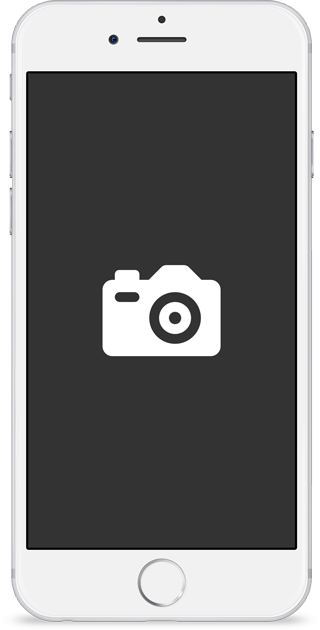
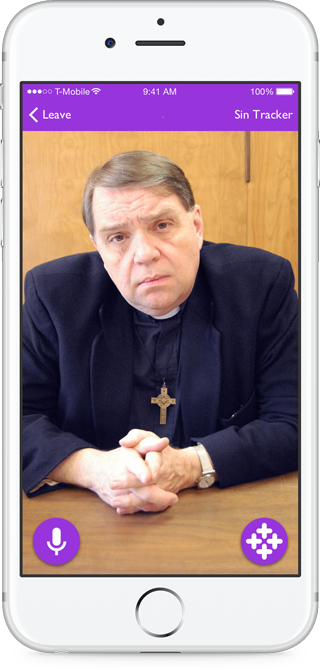
add new app images

diff --git a/index.html b/index.html
@@ -174,7 +174,7 @@
                             <!--begin features_center -->
                             <div class="features_center nodisplay up_fade wow fadeInUp animated">
 
-                                <img src="img/iphone.png" alt="Picture">
+                                <img src="img/launchScreenOnDevice.png" alt="Picture">
 
                             </div>
                             <!--end features_center -->
@@ -236,7 +236,7 @@
 
     <!--feature 1-->
     <div class="row">
-      <div class="col-md-6 text-center"> <img src="img/feature-1.png" alt="feature" class="wow fadeInLeft" data-no-retina data-wow-offset="250"> </div>
+      <div class="col-md-6 text-center"> <img src="img/pickAPriestOnDevice.png" alt="feature" class="wow fadeInLeft" data-no-retina data-wow-offset="250"> </div>
       <div class="col-md-6 sideby-feat">
         <article>
           <h4>Video Confession</h4>
@@ -248,7 +248,7 @@
 
     <!--feature 2-->
     <div class="row">
-      <div class="col-md-6 col-md-push-6 text-center"> <img src="img/feature-2.png" alt="feature" class="wow fadeInRight" data-no-retina data-wow-offset="250"> </div>
+      <div class="col-md-6 col-md-push-6 text-center"> <img src="img/manualsOfConfessionOnDevice.png" alt="feature" class="wow fadeInRight" data-no-retina data-wow-offset="250"> </div>
       <div class="col-md-6 col-md-pull-6 sideby-feat">
         <article>
           <h4>Get better at confession</h4>
@@ -260,7 +260,7 @@
 
     <!--feature 3-->
     <div class="row">
-      <div class="col-md-6 text-center"> <img src="img/feature-3.png" alt="feature" class="wow fadeInLeft" data-no-retina data-wow-offset="250"> </div>
+      <div class="col-md-6 text-center"> <img src="img/sinTrackerOnDevice.png" alt="feature" class="wow fadeInLeft" data-no-retina data-wow-offset="250"> </div>
       <div class="col-md-6 sideby-feat">
         <article>
           <h4>Sin Tracker</h4>
@@ -304,7 +304,7 @@
 
 <!--app screenshot -->
 
-<!-- <section class="screenshot section-spacing text-center" id="screenshots">
+ <!-- <section class="screenshot section-spacing text-center" id="screenshots">
   <div class="container">
     <header class="text-center">
       <h2>App Screenshots</h2>
